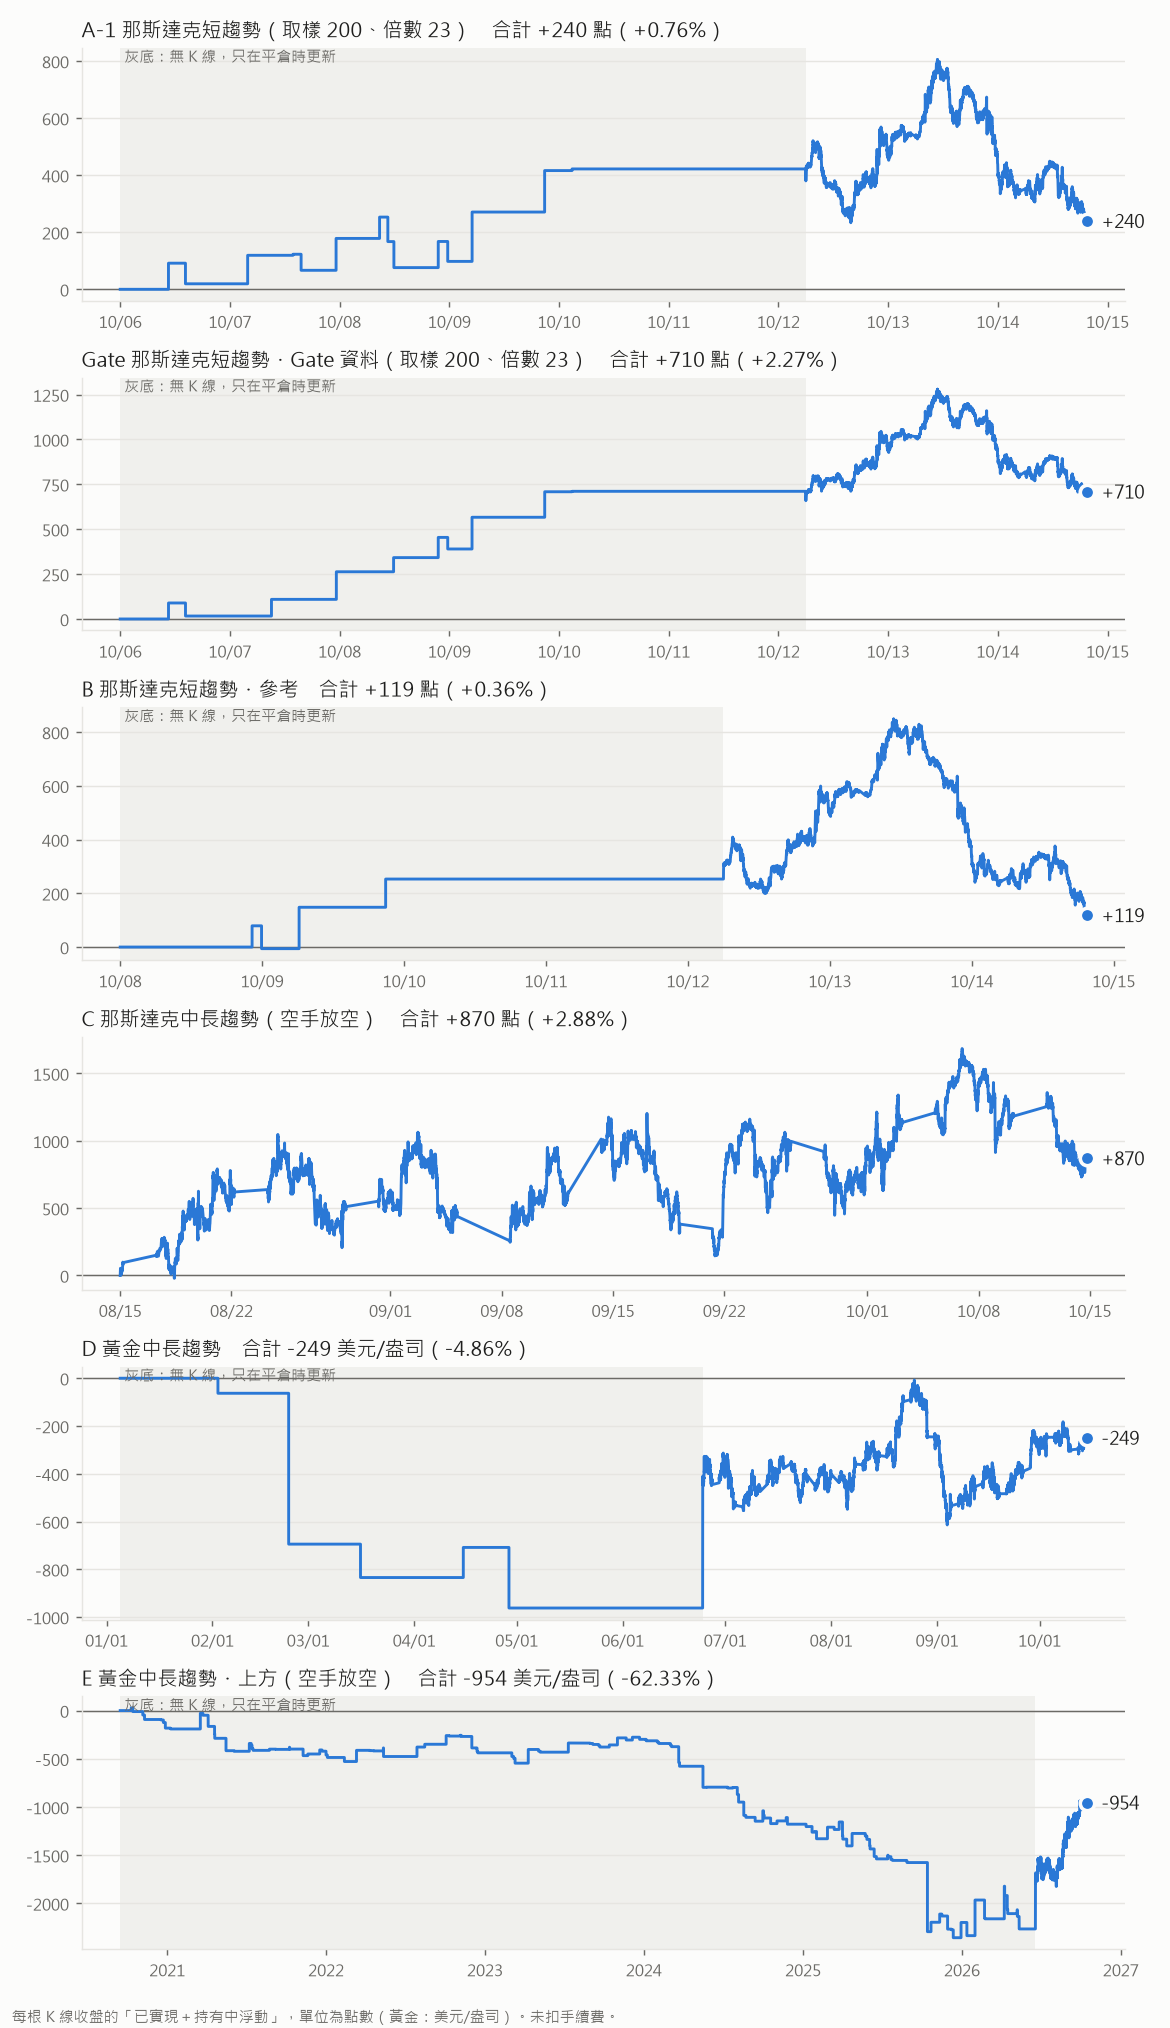
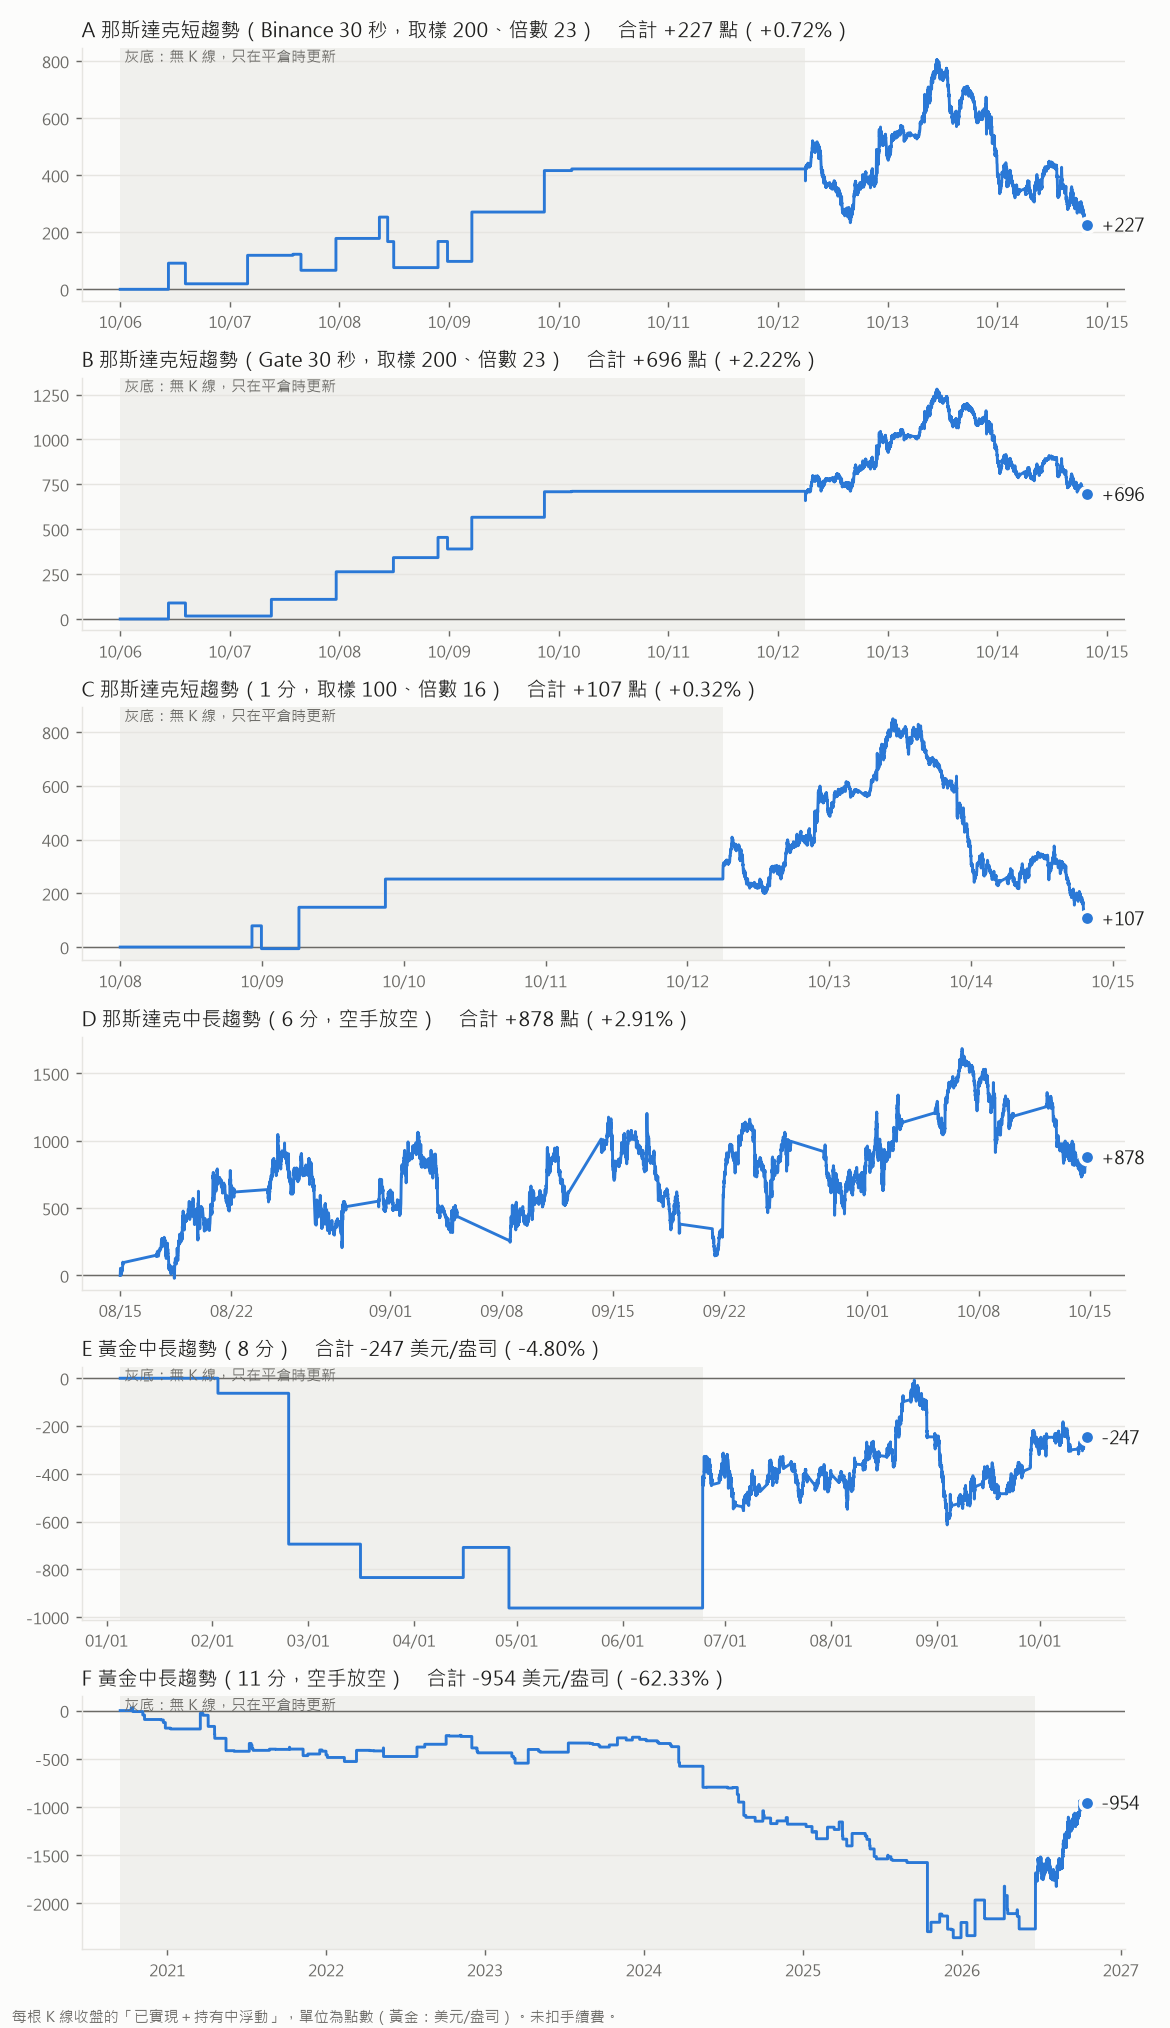
曲線圖與績效輸出改用畫面代號 A～F（紀錄檔內部代號不變）

diff --git a/實際紀錄/更新紀錄.py b/實際紀錄/更新紀錄.py
@@ -44,8 +44,9 @@ START = {"A": ms(2026, 10, 6), "A2": ms(2026, 10, 6), "G": ms(2026, 10, 6), "B":
 # 2026-10-14 使用者要求 D、E 回溯拉到最大：XAUUSDT 2025/12/11 上市、PAXGUSDT 1 分 K 從 2020/08/28，各扣 350 小時暖機。
 # C 維持 8/15：單一月份合約的真 5 分 K 只有 60 天，更早只剩小時 K（9 月約已下市）。
 ORDER = ["A", "G", "B", "C", "D", "E"]
-LABEL = {"A": "A-1", "A2": "A-2", "G": "Gate", "B": "B", "C": "C", "D": "D", "E": "E"}
-NAME = {"A": "那斯達克短趨勢（取樣 200、倍數 23）", "A2": "那斯達克短趨勢（取樣 400、倍數 16）", "G": "那斯達克短趨勢・Gate 資料（取樣 200、倍數 23）", "B": "那斯達克短趨勢・參考", "C": "那斯達克中長趨勢（空手放空）", "D": "黃金中長趨勢", "E": "黃金中長趨勢・上方（空手放空）"}
+# LABEL 是畫面代號（v1.8.4 起照畫面順序叫 A～F），只用在印績效與曲線圖標題；紀錄檔「格子」欄仍是左邊的內部代號。
+LABEL = {"A": "A", "A2": "A-2", "G": "B", "B": "C", "C": "D", "D": "E", "E": "F"}
+NAME = {"A": "那斯達克短趨勢（Binance 30 秒，取樣 200、倍數 23）", "A2": "那斯達克短趨勢（取樣 400、倍數 16）", "G": "那斯達克短趨勢（Gate 30 秒，取樣 200、倍數 23）", "B": "那斯達克短趨勢（1 分，取樣 100、倍數 16）", "C": "那斯達克中長趨勢（6 分，空手放空）", "D": "黃金中長趨勢（8 分）", "E": "黃金中長趨勢（11 分，空手放空）"}
 GOLD = ("D", "E")   # 單位是美元/盎司
 
 # C 格合約與換月日（CME 慣例：到期前約一週的週四換到下一季）。過了最後一列要往下加
